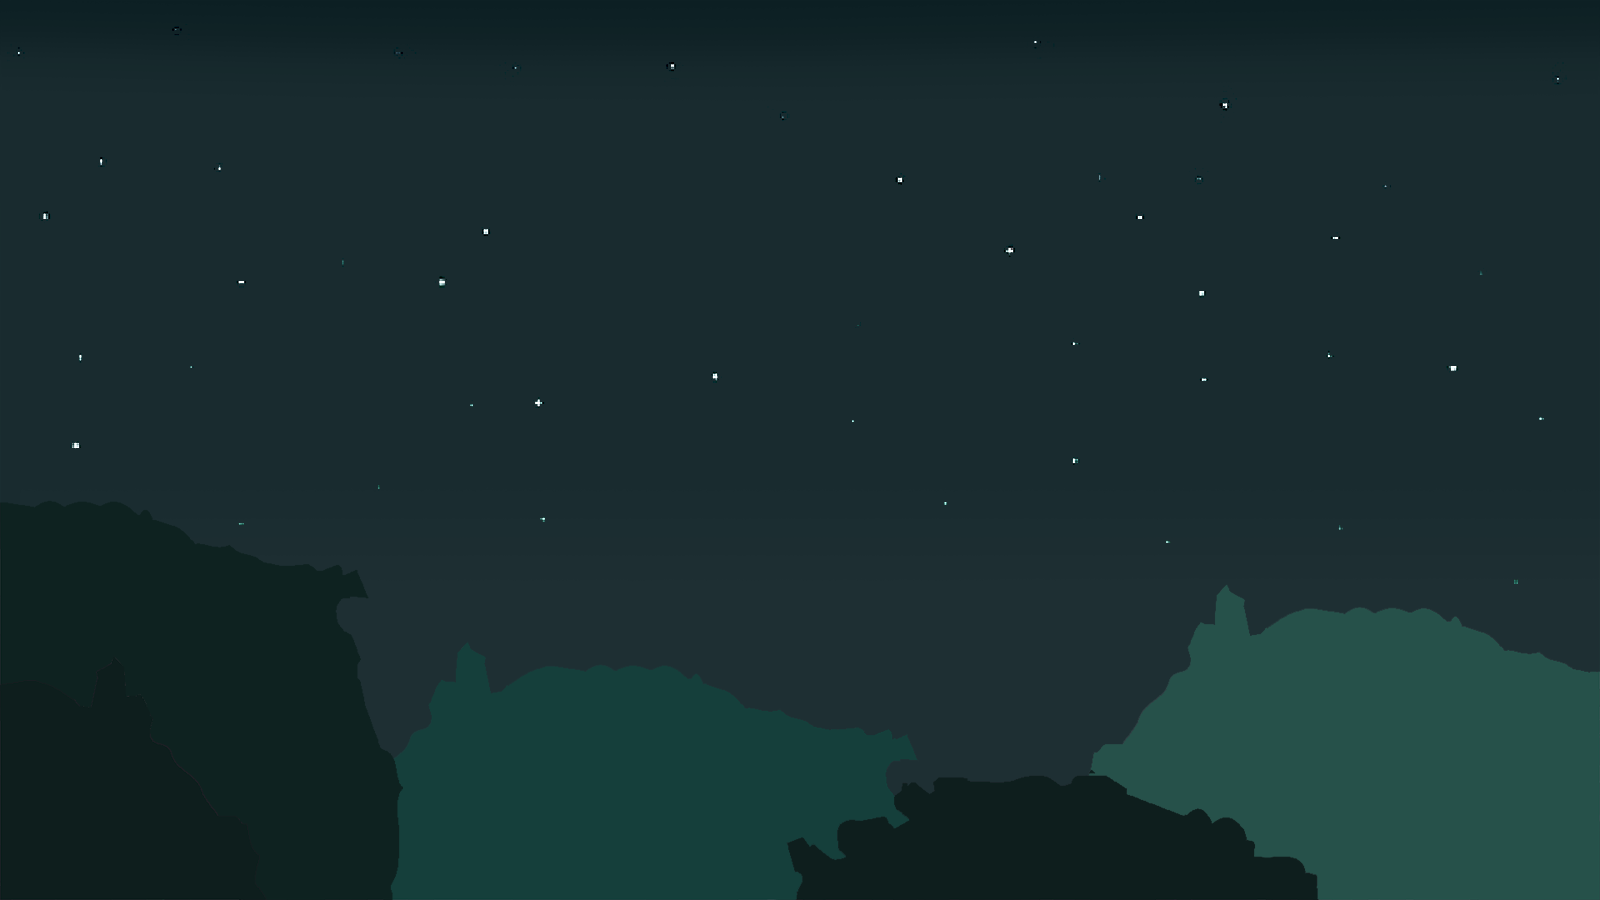
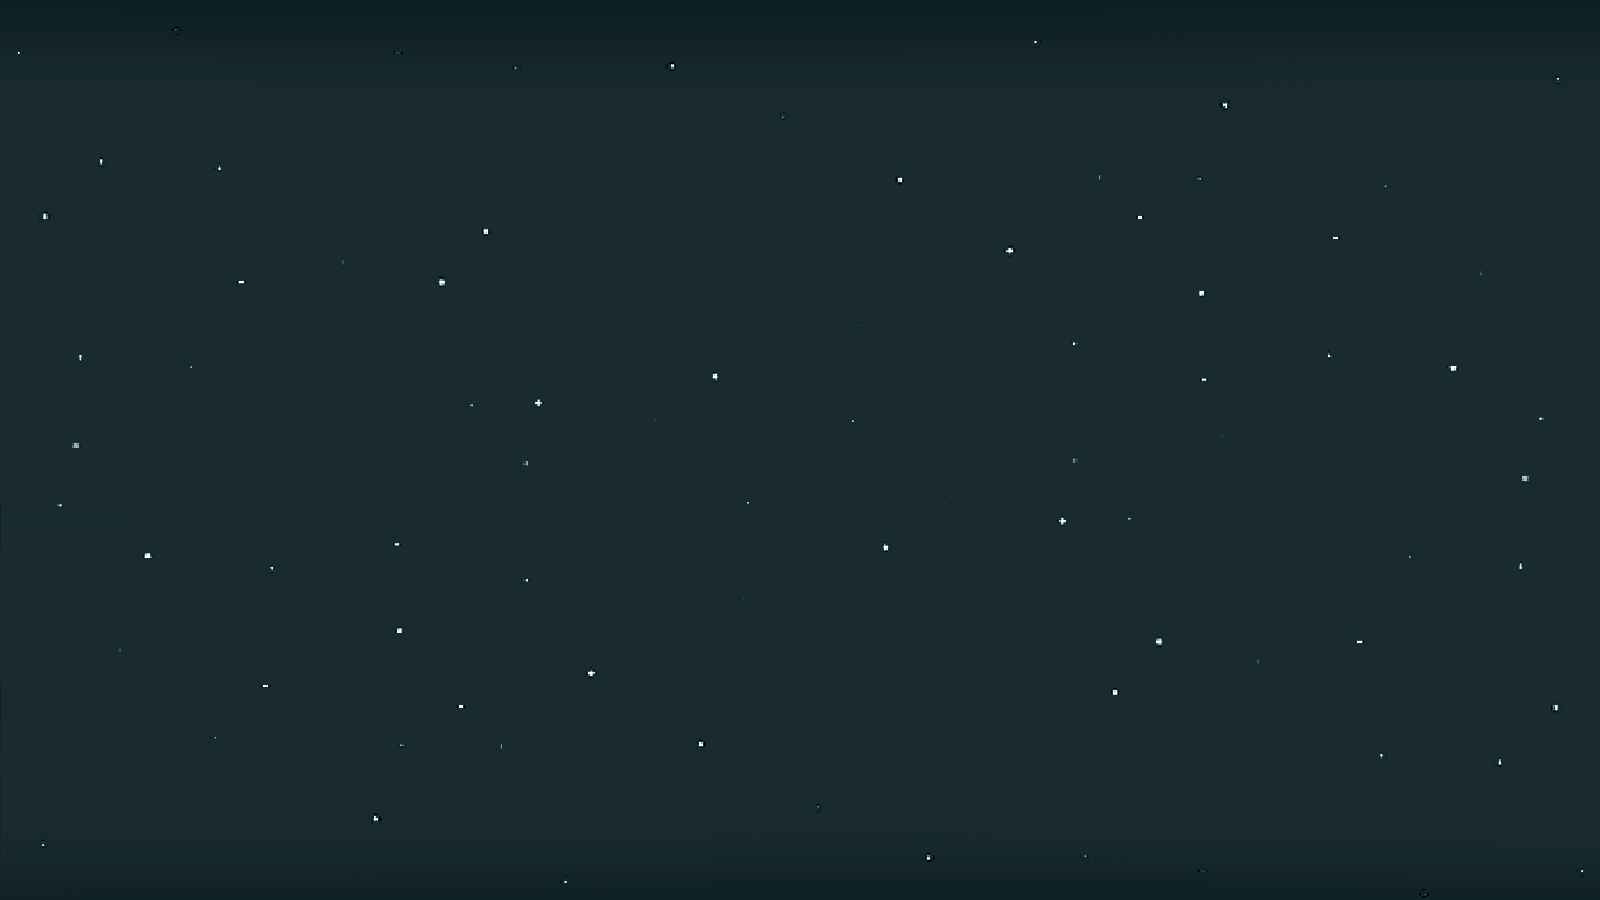
Agregado de parallax

Changed region(s): [[0.6562, 0.6533, 1.0, 1.0], [0.2188, 0.9333, 0.5, 1.0]]

diff --git a/Dragons-SideScrolling/src/screen/Gameplay/gameplay.cpp b/Dragons-SideScrolling/src/screen/Gameplay/gameplay.cpp
@@ -16,7 +16,7 @@ namespace GameInit
 	Screen screen = MENU;
 	namespace Gameplay
 	{
-		Texture2D fond;
+		
 		enum Direction
 		{
 			Up = 1,
@@ -49,6 +49,14 @@ namespace GameInit
 			Vector2 origin;
 		};
 
+		struct Fondo {
+			Texture2D fond;
+			float x;
+			float y;
+			float x_inicial;
+			Vector2 position;
+			Vector2 speed;
+		};
 		struct Shoot {
 			Vector2 position;
 			Vector2 speed;
@@ -119,7 +127,7 @@ namespace GameInit
 		int currentFrame = 0;
 		Rectangle enemi;
 		Rectangle enemi2;
-
+		Fondo fondo[2];
 		Rectangle rec;
 
 		//--------------------------------------------
@@ -129,7 +137,26 @@ namespace GameInit
 		bool firstInit = true;
 		//--------------------------------------------
 		void initGame() {
-			fond = LoadTexture("res/fondo.png");
+			for (int i = 0; i < 2; i++)
+			{
+				if (i == 0) 
+				{
+					fondo[i].x = 0;
+					fondo[i].y = 0;
+					fondo[i].fond = LoadTexture("res/fondo.png");
+					fondo[i].position = Vector2{ 0.0f,0.0f };
+					fondo[i].speed = Vector2{ 0, 0 };
+				}
+				else
+				{
+					fondo[i].fond = LoadTexture("res/fondo.png");
+					fondo[i].x = fondo[i].fond.width;
+					fondo[i].y = 0;
+					fondo[i].position = Vector2{ 0.0f,0.0f };
+					fondo[i].speed = Vector2{ 0, 0 };
+				}
+			}
+		
 #ifdef MUSIC_ON
 			fxWav = LoadSound("res/Blip_Select.wav");
 			fxWav2 = LoadSound("res/Blip_Select2.wav");
@@ -171,6 +198,22 @@ namespace GameInit
 
 		void updateGame()
 		{
+			for (int i = 0; i <	2; i++)
+			{
+				
+				fondo[i].position = Vector2{ fondo[i].x,fondo[i].y };
+				fondo[i].speed = Vector2{ SPEED_BALL_INIT, SPEED_BALL_INIT };
+			}
+			for (int i = 0; i <2; i++)
+			{
+				fondo[i].x -= velocity * GetFrameTime();
+				if (fondo[i].x <= -fondo[i].fond.width)
+				{
+					fondo[i].x = (int)fondo[i].fond.width;
+				}
+			}
+			
+
 			for (int i = 0; i < TOTAL_METEOR; i++) 
 			{	
 				if (i == 1) 
@@ -349,7 +392,11 @@ namespace GameInit
 		}
 		void DrawGame()
 		{
-			DrawTexture(fond, 0, 0, WHITE);
+			for (int i = 0; i < 2; i++)
+			{
+				DrawTexture(fondo[i].fond, fondo[i].position.x, fondo[i].position.y, WHITE);
+			}
+		
 			if (pauseButtonAnimationOn)
 			{
 				DrawTexture(boton_pause, Gameplay::screenWidth - 100, 5, WHITE);
@@ -388,7 +435,6 @@ namespace GameInit
 					DrawTexture(negativeExit, Gameplay::screenWidth / 2 - exit.width / 2, Gameplay::screenHeight / 2 + exit.height + 5, WHITE);
 				}
 			}
-			DrawRectangleRec(rec, BLACK);
 		}
 		void initMeteor(Meteor meteor[])
 		{
@@ -447,12 +493,12 @@ namespace GameInit
 				if (i == 0) 
 				{
 					DrawTexturePro(meteor[i].meteor_texture, meteor[i].sourceRec, meteor[i].destRec, meteor[i].origin, 0.0f, WHITE);
-					DrawRectangleRec(enemi2, BLACK);
+					//DrawRectangleRec(enemi2, BLACK);
 				}
 				else
 				{
 					DrawTexturePro(meteor[i].meteor_texture, meteor[i].sourceRec, meteor[i].destRec, meteor[i].origin, 180.0f, WHITE);
-					DrawRectangleRec(enemi, BLACK);
+					//DrawRectangleRec(enemi, BLACK);
 				}
 		
 			}
